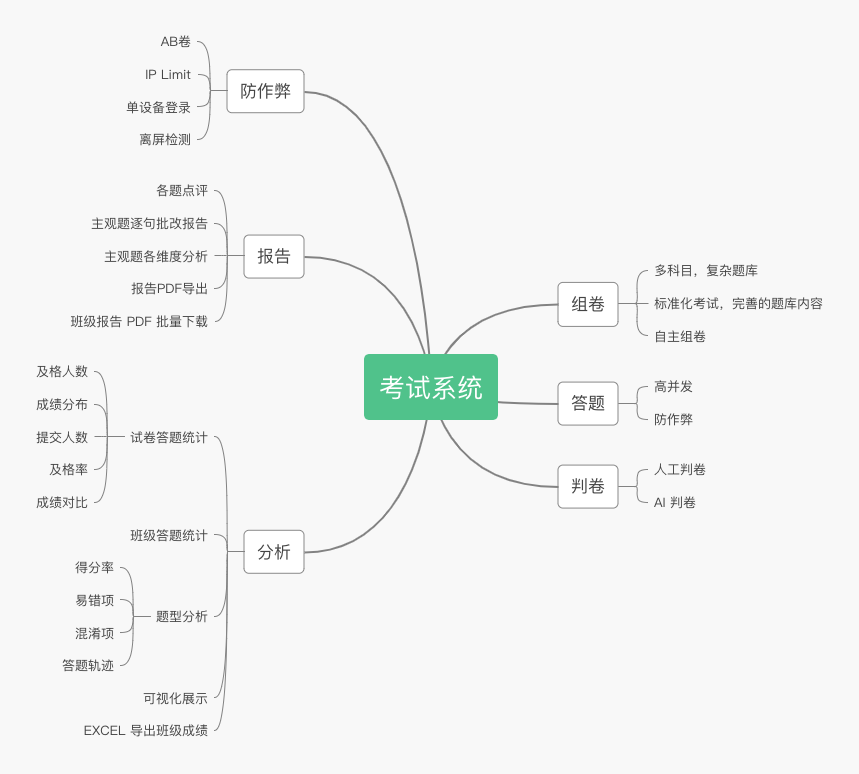
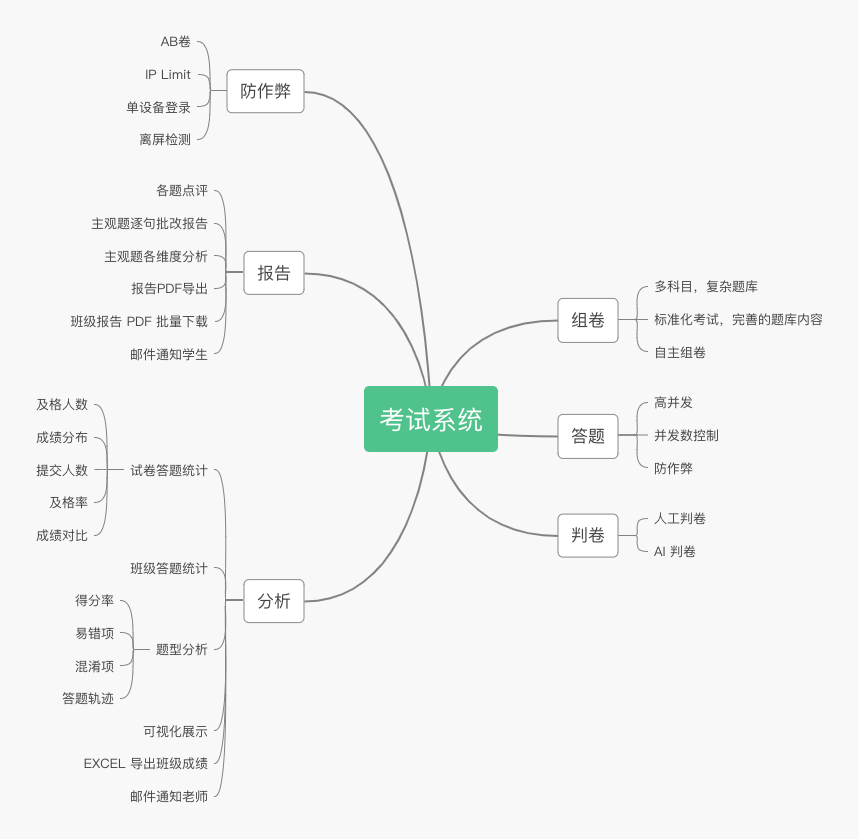
update

diff --git a/business/exam.md b/business/exam.md
@@ -4,10 +4,6 @@ date: 2020-06-21 19:32
 
 # 在线教育中技术与业务疑难问题之考试系统
 
-
-
----
-
 [ toc ]
 
 我在一家在线教育公司有一两年的时间，精力都投入到了考试系统的设计上。
@@ -33,6 +29,43 @@ date: 2020-06-21 19:32
 ### 技术架构
 
 ![](./assets/exam-arch.drawio.png)
+
+## 总结
+
+### 业务
+
+1. 线上考试系统致力于高校/中小学信息化建设，可以为教学减负
+1. 线上考试系统是 toB 教育系统的一个子模块，需要抽离出来，做成微前端为服务，赋能与集团内各个教育系统 (嵌入页面，或直接跳入考试系统)
+1. 教育系统除了线上考试子系统的模块，还可以有课程、作业、题库、知识库等内容模块。各个子模块按照权重自由组合可构成不同的教育系统
+1. 教育系统可以按照账号数(并发数)或模块数收费
+1. 考试业务次数少、并发大、时间集中并有固定场地
+1. 考试组卷基于题库系统，需要自主组卷
+1. ...答题过程见脑图
+1. 考试系统可以与智能硬件结合
+1. 考试系统可以直接从 word/图片 作为试卷，全部视为主观题
+1. 考试系统需要注意内容与教研积累，避免文档类工具侵入
+1. 考试系统部分功能可移到小程序，如加入班级，扫码考试
+
+### 技术
+
+1. 答题时高并发需要注意缓存、异步、消息队列、服务降级及熔断
+1. 答题时高并发写需要注意测试数据库是否抗的住，如果可以，则跳过，如果不可以，则升级或者扔消息队列
+1. 云数据库注意最高连接数多少，避免考试答题时写库拒绝
+1. 防作弊发现作弊时禁止页面中做题，而非强制提交，方便老师确认作弊或解冻
+1. 答题时并发数控制基于 `redis zset` 中的 `zrangebyscore`，每次答题写入用户的 `userId` 或者 `fingerprint`
+1. 答题时只用户单设备登录，此时使用浏览器 `fingerprint` 辨认，在每次答题时服务端确认
+1. 用户的浏览器指纹基于 `fingerprintjs2` 生成，考试换机器时会失效，此时需要老师解冻
+1. 防作弊离屏检测基于离屏次数与离屏时间，可以通过 `blur/focus` 事件监听，并与 `FullScreen API` 结合
+1. 防作弊离屏检测需要统一机房，防止流氓软件弹框被视为作弊
+1. 机房统一考试环境可以通过 `IP whitelist` 方式防作弊
+1. 防作弊 AB 卷采用打乱题号的方式防止作弊
+1. 考试完成后要注意主观题判卷服务的高并发，注意缓存、异步、消息队列及熔断
+1. 判卷完成后要注意pdf服务生成报告的高并发，注意缓存、异步、消息队列及熔断
+1. 判卷服务与pdf服务注意弹性扩容，比如 `k8s` 中的 `HPA`
+1. 答题分析时注意混淆项和答题轨迹的业务逻辑
+1. excel 导出时使用前端导出(前端表格与导出格式一致)，使用库  [sheetjs](https://github.com/SheetJS/sheetjs)
+1. 报告与分析完成后需要向老师学生发送邮件，邮件需要扔到消息队列
+1. 丰富样式的邮件没法使用外部 `css`，此时需要使用 `juice` 来完成这一操作
 
 ## 线上考试的业务价值及中学高校信息化建设
 
@@ -134,7 +167,7 @@ date: 2020-06-21 19:32
 
 ``` js
 // 当一个用户访问接口时
-await redis.zadd(`Organization:${organizationId}:concurrent`, Date.now(), `User:${userId}`)
+await redis.zadd(`Organization:${organizationId}:concurrent`, Date.now(), `User:${fingerprint}`)
 
 // 查询当前机构的并发数
 // 通过查询一分钟内的活跃用户来确认并发数
